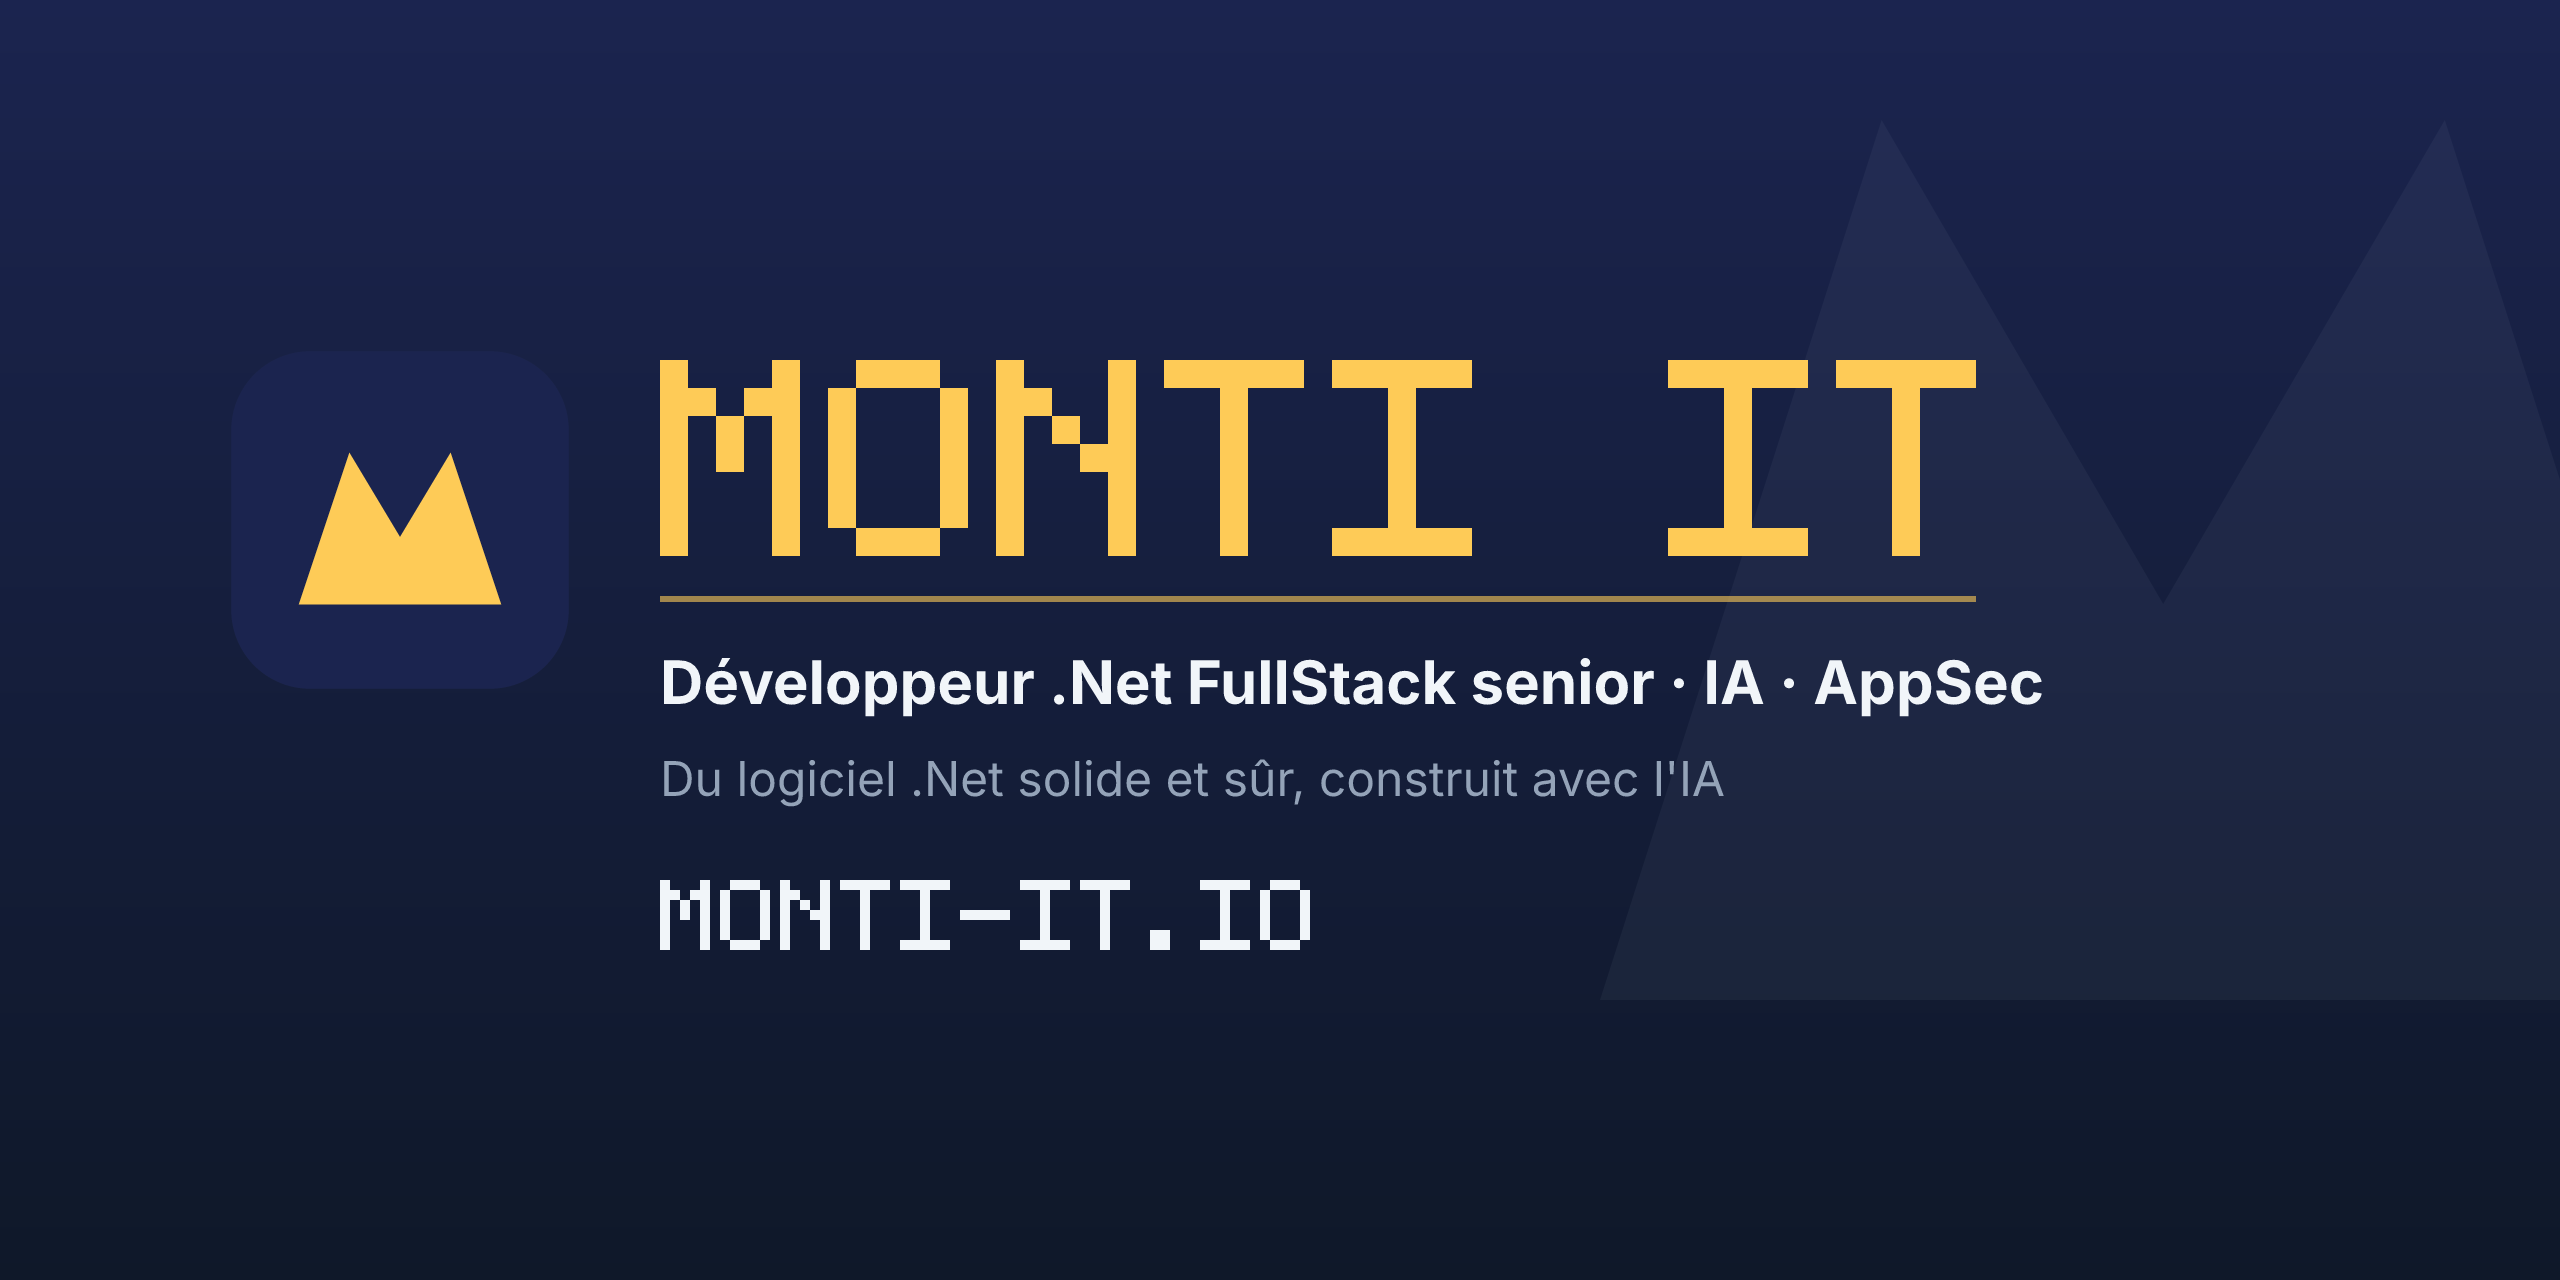
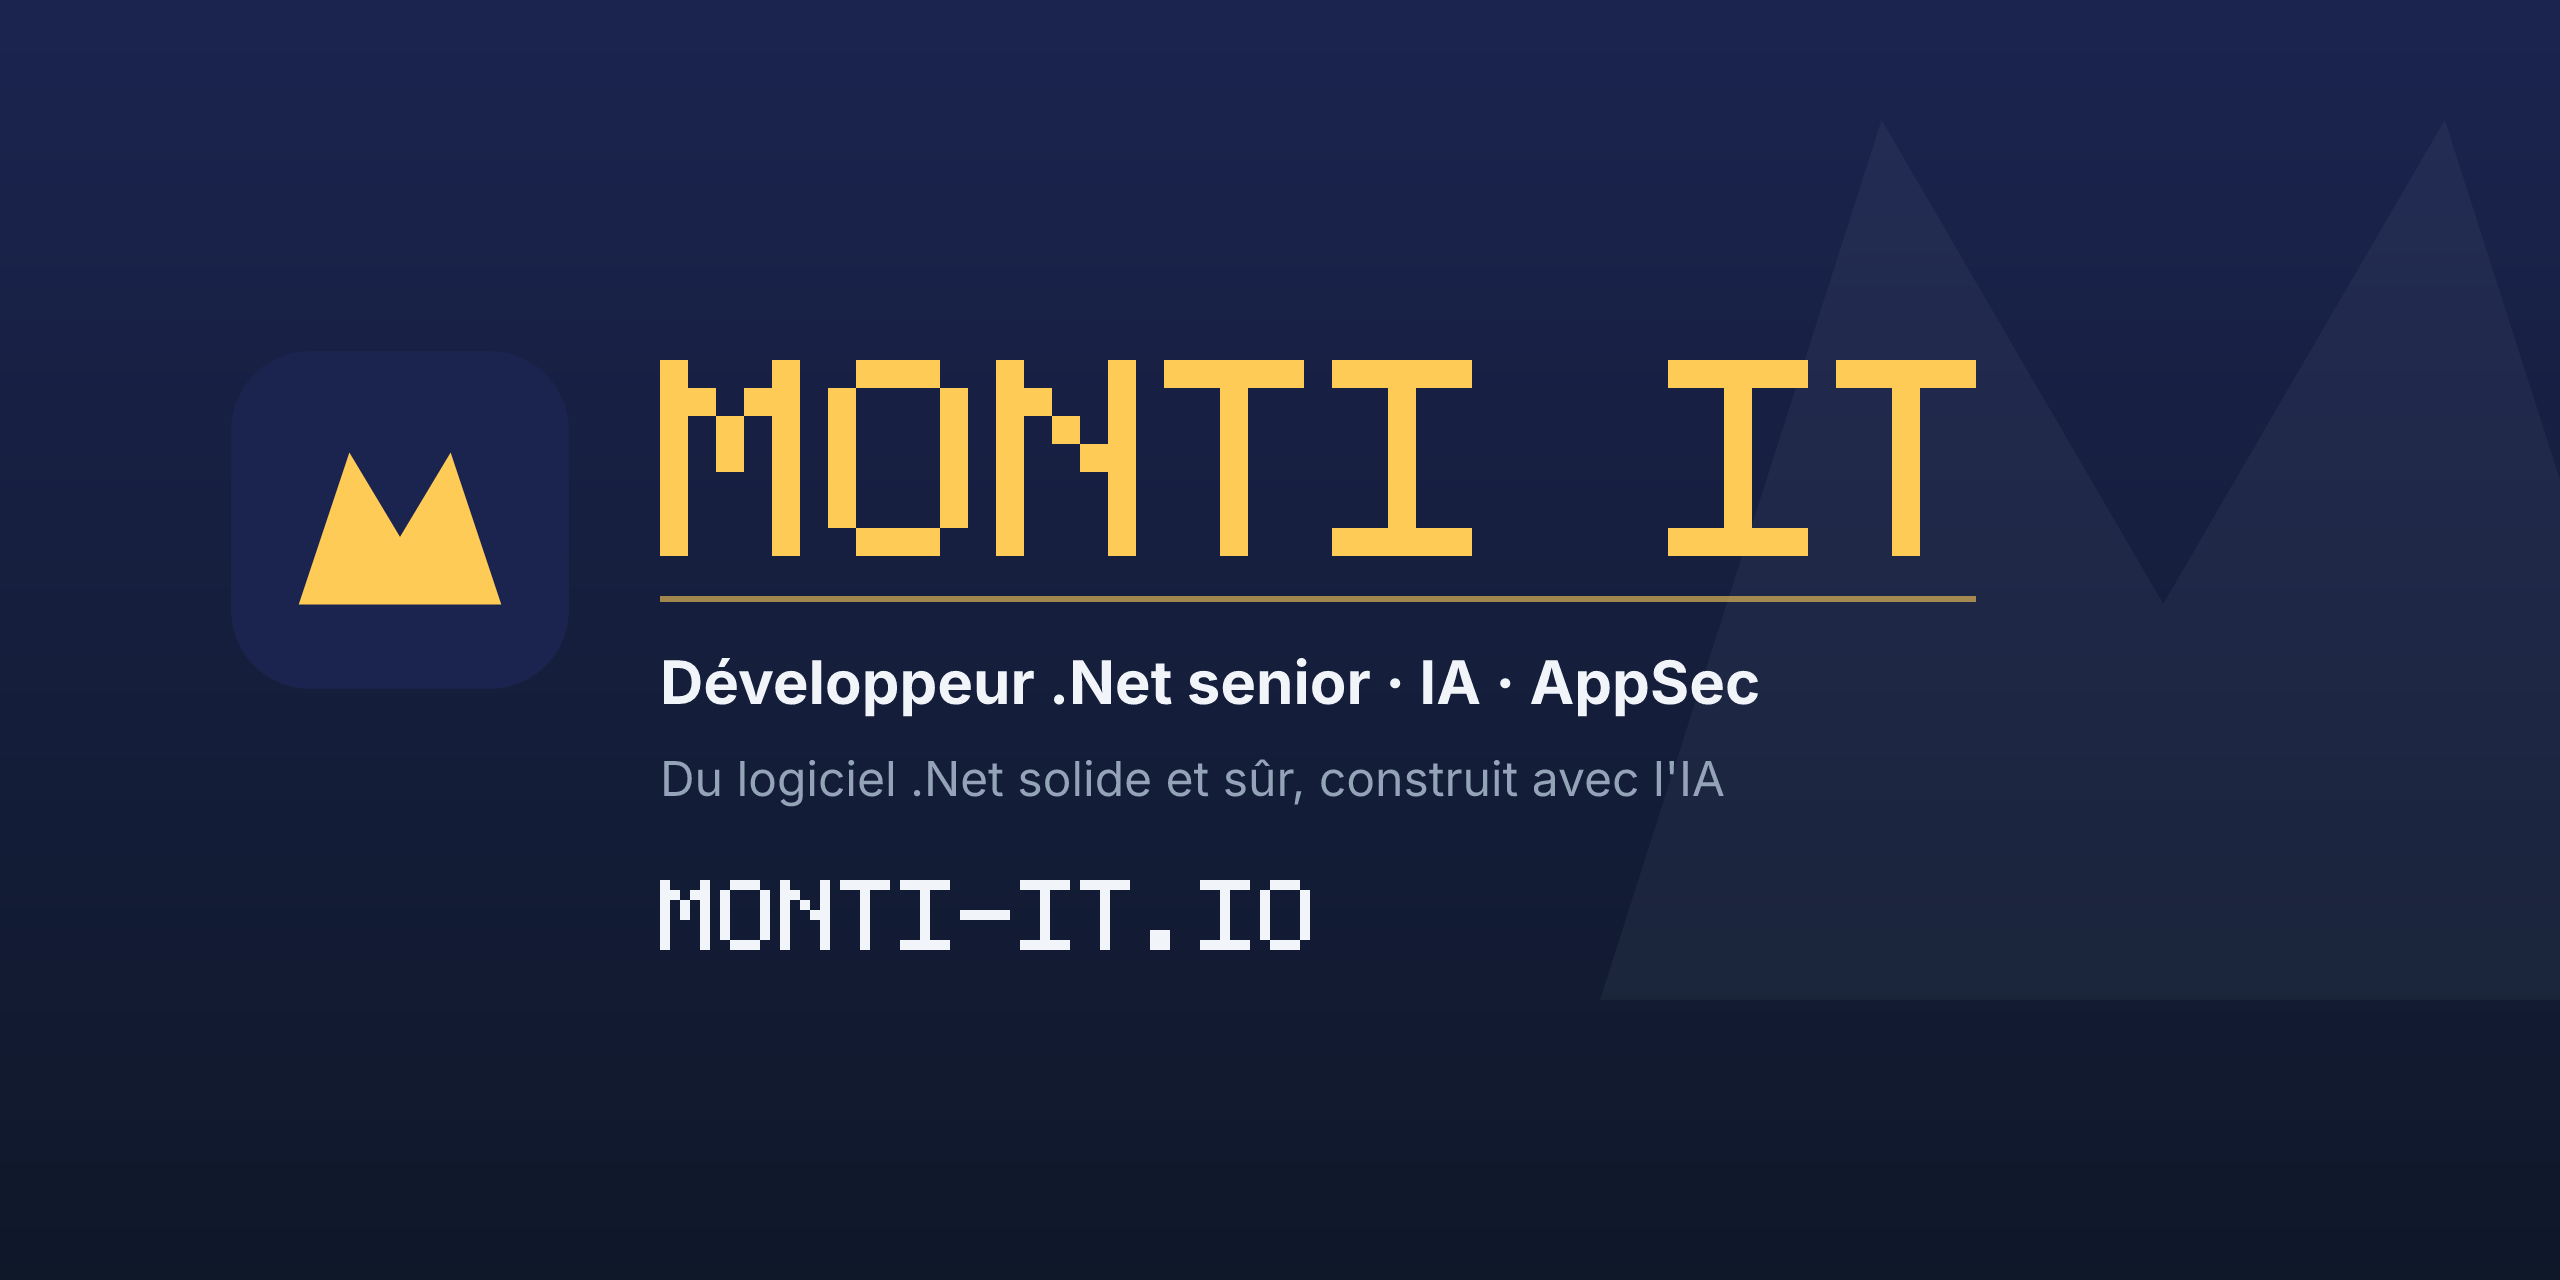
feat: keep "FullStack" out of the role title, only in the About (#136)
The role title is back to "Développeur .Net senior" / "Senior .Net
developer" in the eyebrow, SEO titles, index.html, banner alt and the
résumé title. "FullStack" stays only in the résumé profile sentence and,
per the LinkedIn skill, once in the About, as a search keyword.

Changed region(s): [[0.4688, 0.5, 0.8125, 0.5625]]

diff --git a/src/i18n/translations.js b/src/i18n/translations.js
@@ -24,7 +24,7 @@ export const translations = {
       rights: 'Tous droits réservés.'
     },
     header: {
-      eyebrow: 'Développeur .Net FullStack senior · IA · AppSec',
+      eyebrow: 'Développeur .Net senior · IA · AppSec',
       title: "Du logiciel .Net solide et sûr, construit avec l'IA",
       lead: 'Votre application .Net modernisée plus vite, sans rien céder sur la qualité : architecture robuste, code testé, failles fermées avant la prod. Des agents IA écrivent le code sous ma direction, et 21 ans de .Net me permettent de le juger avec un œil de sécurité.',
       ctaMore: 'En savoir plus',
@@ -483,7 +483,7 @@ export const translations = {
       eyebrow: 'Informations légales',
       title: 'Mentions légales',
       bindingNote: '',
-      bannerAlt: 'Monti IT, développeur .Net FullStack senior freelance',
+      bannerAlt: 'Monti IT, développeur .Net senior freelance',
       sections: {
         publisher: {
           title: 'Éditeur du site',
@@ -634,7 +634,7 @@ export const translations = {
     },
     seo: {
       home: {
-        title: 'Développeur .Net FullStack senior freelance · IA & AppSec',
+        title: 'Développeur .Net senior freelance · IA & AppSec',
         description:
           '21 ans de .Net : des agents IA écrivent le code sous ma direction, je le relis avec un œil de sécurité. Missions ou forfait.'
       },
@@ -680,7 +680,7 @@ export const translations = {
       resume: {
         title: 'Résumé de carrière',
         description:
-          "Christophe Monti, développeur .Net FullStack senior : modernisation d'applications .Net critiques avec l'IA, sans céder sur la qualité ni la sécurité applicative. Parcours et expériences."
+          "Christophe Monti, développeur .Net senior : modernisation d'applications .Net critiques avec l'IA, sans céder sur la qualité ni la sécurité applicative. Parcours et expériences."
       },
       notFound: {
         title: 'Page introuvable',
@@ -767,7 +767,7 @@ export const translations = {
       rights: 'All rights reserved.'
     },
     header: {
-      eyebrow: 'Senior .Net FullStack developer · AI · AppSec',
+      eyebrow: 'Senior .Net developer · AI · AppSec',
       title: 'Solid, secure .Net software, built with AI',
       lead: 'Your .Net application modernized faster, with no compromise on quality: robust architecture, tested code, vulnerabilities closed before production. AI agents write the code under my direction, and 21 years of .Net let me judge it with a security mindset.',
       ctaMore: 'Learn more',
@@ -1220,7 +1220,7 @@ export const translations = {
       title: 'Legal notice',
       bindingNote:
         'This English version is provided for convenience. The French version (mentions légales) is the legally binding one.',
-      bannerAlt: 'Monti IT, senior freelance .Net FullStack developer',
+      bannerAlt: 'Monti IT, senior freelance .Net developer',
       sections: {
         publisher: {
           title: 'Publisher',
@@ -1373,7 +1373,7 @@ export const translations = {
     },
     seo: {
       home: {
-        title: 'Senior .Net FullStack freelance developer · AI & AppSec',
+        title: 'Senior .Net freelance developer · AI & AppSec',
         description:
           '21 years of .Net: AI agents write the code under my direction, and I review it with a security mindset. Engagements or fixed-price.'
       },
@@ -1419,7 +1419,7 @@ export const translations = {
       resume: {
         title: 'Career résumé',
         description:
-          'Christophe Monti, senior .Net FullStack developer: modernizing critical .Net applications with AI, with no compromise on quality or application security. Background and experience.'
+          'Christophe Monti, senior .Net developer: modernizing critical .Net applications with AI, with no compromise on quality or application security. Background and experience.'
       },
       notFound: {
         title: 'Page not found',

diff --git a/src/i18n/roleTitle.test.js b/src/i18n/roleTitle.test.js
@@ -19,28 +19,16 @@ const collectStrings = (value, path = []) => {
 
 describe('role title', () => {
   it.each([
-    ['fr', 'header.eyebrow', 'Développeur .Net FullStack senior · IA · AppSec'],
-    ['en', 'header.eyebrow', 'Senior .Net FullStack developer · AI · AppSec'],
-    [
-      'fr',
-      'seo.home.title',
-      'Développeur .Net FullStack senior freelance · IA & AppSec'
-    ],
-    [
-      'en',
-      'seo.home.title',
-      'Senior .Net FullStack freelance developer · AI & AppSec'
-    ],
+    ['fr', 'header.eyebrow', 'Développeur .Net senior · IA · AppSec'],
+    ['en', 'header.eyebrow', 'Senior .Net developer · AI · AppSec'],
+    ['fr', 'seo.home.title', 'Développeur .Net senior freelance · IA & AppSec'],
+    ['en', 'seo.home.title', 'Senior .Net freelance developer · AI & AppSec'],
     [
       'fr',
       'legalNotice.bannerAlt',
-      'Monti IT, développeur .Net FullStack senior freelance'
+      'Monti IT, développeur .Net senior freelance'
     ],
-    [
-      'en',
-      'legalNotice.bannerAlt',
-      'Monti IT, senior freelance .Net FullStack developer'
-    ]
+    ['en', 'legalNotice.bannerAlt', 'Monti IT, senior freelance .Net developer']
   ])('%s %s reads the role title', (lang, key, expected) => {
     const value = key
       .split('.')
@@ -49,8 +37,8 @@ describe('role title', () => {
   })
 
   it.each([
-    ['fr', 'Christophe Monti, développeur .Net FullStack senior : '],
-    ['en', 'Christophe Monti, senior .Net FullStack developer: ']
+    ['fr', 'Christophe Monti, développeur .Net senior : '],
+    ['en', 'Christophe Monti, senior .Net developer: ']
   ])('%s seo.resume.description starts with the role title', (lang, start) => {
     expect(translations[lang].seo.resume.description.startsWith(start)).toBe(
       true
@@ -58,9 +46,7 @@ describe('role title', () => {
   })
 
   it('résumé title reads the role title', () => {
-    expect(resume.title).toBe(
-      'Senior .Net FullStack Developer · AI · AppSec | Freelance'
-    )
+    expect(resume.title).toBe('Senior .Net Developer · AI · AppSec | Freelance')
   })
 
   it('index.html static titles read the French home title', () => {
@@ -69,7 +55,7 @@ describe('role title', () => {
       'utf8'
     )
     const expected =
-      'Développeur .Net FullStack senior freelance · IA &amp; AppSec | Monti IT'
+      'Développeur .Net senior freelance · IA &amp; AppSec | Monti IT'
     expect(html.match(/<title>\s*([^<]*?)\s*<\/title>/)[1]).toBe(expected)
     for (const property of ['og:title', 'twitter:title']) {
       const meta = html.match(

diff --git a/index.html b/index.html
@@ -16,7 +16,7 @@
     <meta property="og:type" content="website" />
     <meta
       property="og:title"
-      content="Développeur .Net FullStack senior freelance · IA &amp; AppSec | Monti IT"
+      content="Développeur .Net senior freelance · IA &amp; AppSec | Monti IT"
     />
     <meta
       property="og:description"
@@ -33,14 +33,14 @@
     <meta name="twitter:card" content="summary_large_image" />
     <meta
       name="twitter:title"
-      content="Développeur .Net FullStack senior freelance · IA &amp; AppSec | Monti IT"
+      content="Développeur .Net senior freelance · IA &amp; AppSec | Monti IT"
     />
     <meta
       name="twitter:description"
       content="21 ans de .Net : des agents IA écrivent le code sous ma direction, je le relis avec un œil de sécurité. Missions ou forfait."
     />
     <title>
-      Développeur .Net FullStack senior freelance · IA &amp; AppSec | Monti IT
+      Développeur .Net senior freelance · IA &amp; AppSec | Monti IT
     </title>
   </head>
   <body>

diff --git a/.claude/skills/linkedin/SKILL.md b/.claude/skills/linkedin/SKILL.md
@@ -49,7 +49,7 @@ Check at least:
 - **Identity line**: `resume.json` `title` vs `header.eyebrow` (`en`, since `title` is English;
   then make sure the `fr` eyebrow says the same thing). Ignore title case ("Developer" vs "developer")
   and a trailing `| Freelance` status; anything else that differs (a missing or extra role keyword) is
-  drift, and so is a missing "FullStack" or an all-caps ".NET" outside "ASP.NET" in either source.
+  drift, and so is "FullStack" in either title or an all-caps ".NET" outside "ASP.NET" in either source.
 - **Shared roles** (same `key` in `resume.json` `experience[]` and `experienceMeta`): `period`, `sector`,
   `company`, `location`. Hyphen vs en dash isn't drift. Wording of descriptions differs on purpose, so
   only flag a contradiction of fact (a different number, technology or scope).
@@ -64,8 +64,10 @@ Check at least:
 
 ### Wording rules (positioning, decided in #70)
 
-- Keep **"Développeur .Net FullStack senior"** (EN: "Senior .Net FullStack developer") visible, in the
-  Headline and early in About, so recruiter searches on .Net find the profile.
+- Keep **"Développeur .Net senior"** (EN: "Senior .Net developer") visible, in the Headline and early in
+  About, so recruiter searches on .Net find the profile.
+- Say **"FullStack"** once in About, as a search keyword ("Développeur .Net FullStack senior" / "Senior
+  .Net FullStack developer"), and nowhere else: not in the Headline, Experience or Top skills.
 - Write **".Net"**, never ".NET", except in the product name "ASP.NET" ("ASP.NET Core", "ASP.NET MVC").
 - Imply that **AI agents write the code and Christophe frames, reviews and owns it**. Say it plainly
   ("des agents IA écrivent le code sous ma direction : je cadre, je relis et je réponds du résultat"),
